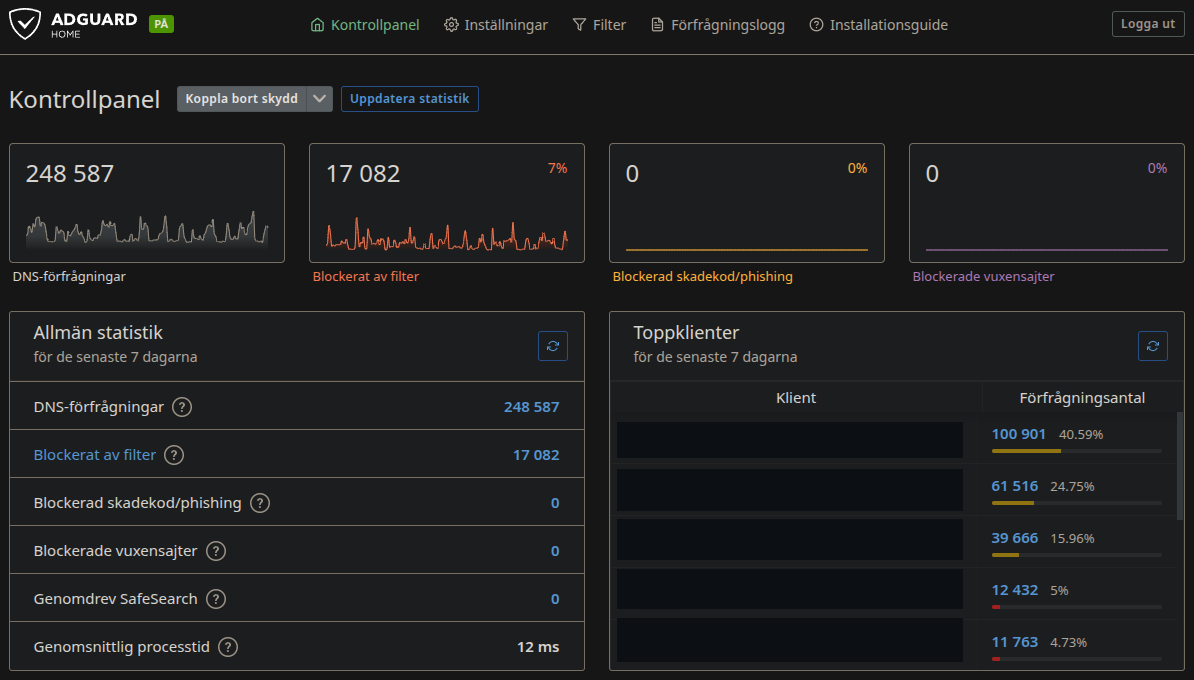
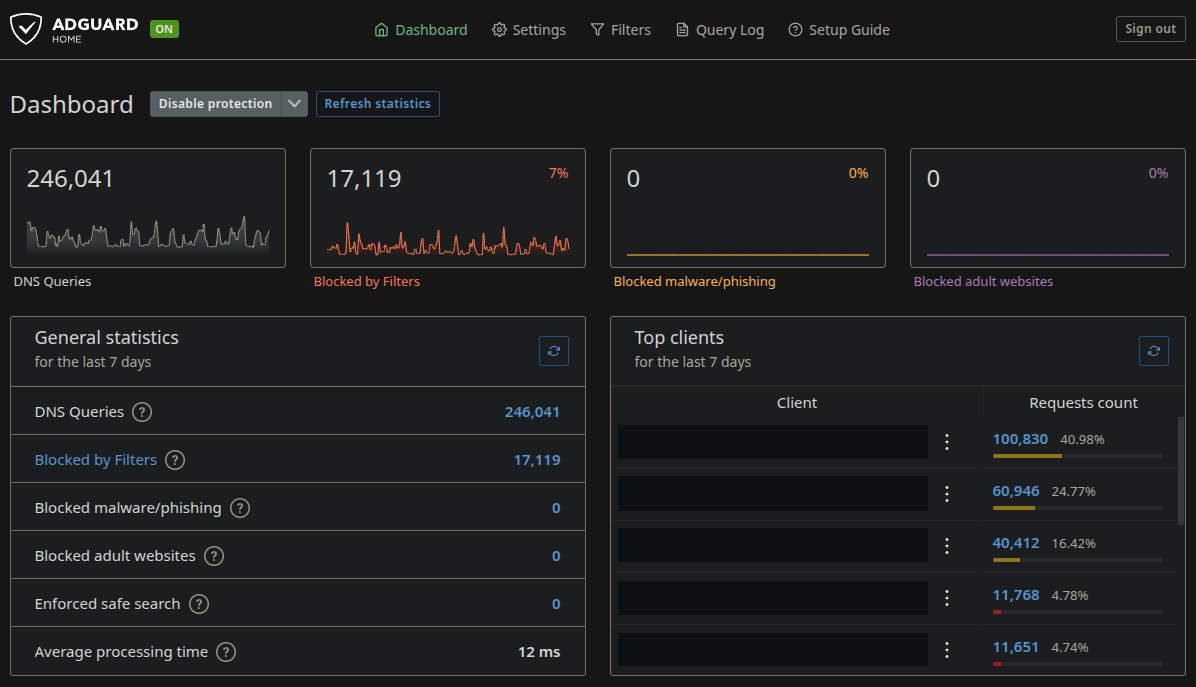
Add installed hardware photos and English AdGuard dashboard

diff --git a/scripts/check_public_content.py b/scripts/check_public_content.py
@@ -2,7 +2,7 @@
 """Review current or staged portfolio files without printing matched values.
 
 Checks the file allowlist, sensitive-data patterns, local Markdown links,
-and fingerprints of manually reviewed, metadata-free PNG screenshots.
+and fingerprints of manually reviewed, metadata-free PNG images.
 Image fingerprints do not replace visual review of a new or changed image.
 Run alongside Gitleaks and manual review. Uses Python's standard library.
 """
@@ -34,7 +34,7 @@ APPROVED_TEXT_FILES = frozenset({
     "scripts/check_public_content.py",
     "tests/test_public_content.py",
 })
-# Each fingerprint belongs to the final cropped/redacted PNG, not its source.
+# Each fingerprint belongs to the final public PNG, not its private source.
 # Changing an image requires visual review before approving a new fingerprint.
 APPROVED_IMAGES = {
[1 lines of base64/hex data omitted]
@@ -44,12 +44,14 @@ APPROVED_IMAGES = {
[12 lines of base64/hex data omitted]
 }
 APPROVED_FILES = APPROVED_TEXT_FILES | APPROVED_IMAGES.keys()
 ILLUSTRATIVE_NETWORK = ipaddress.ip_network("10.77.0.0/16")

diff --git a/docs/architecture.md b/docs/architecture.md
@@ -2,7 +2,26 @@
 
 ## Physical and virtual layout
 
-The lab runs on a single compact Proxmox VE system with approximately 32 GiB of RAM, NVMe-backed workload storage, and a separate SATA backup disk. OPNsense is a VM; application services run in LXC containers.
+The lab runs on a TekLager TLSense 10810U with 32 GB of RAM, NVMe-backed workload storage, and a separate SATA backup SSD. OPNsense is a VM; application services run in LXC containers.
+
+### Physical hardware
+
+The [TLSense 10810U](https://teklager.se/en/products/routers/tlsense-10810U) is a compact, passively cooled system with six 2.5 GbE Ethernet ports.
+
+| Component | Installed hardware | Role |
+| --- | --- | --- |
+| Processor | Intel Core i7-10810U, 6 cores / 12 threads | Proxmox VE, the firewall VM, and service containers |
+| Memory | 32 GB, 2 x 16 GB DDR4 SO-DIMM modules rated DDR4-3200 | Host and workload memory |
+| NVMe SSD | Samsung PM9A1 1 TB, M.2 2280, PCIe 4.0 x4 capable | Proxmox system disk, LVM, and LVM-thin workload storage |
+| SATA SSD | Samsung 870 EVO 500 GB, 2.5-inch SATA | Dedicated local workload and host-configuration backups |
+
+![TLSense 10810U Proxmox host with its passive-cooling chassis](../assets/photos/tlsense-proxmox-host.png)
+
+The photo shows the installed host, its passive-cooling fins, front USB ports, serial console connector, and power indicator.
+
+Product documentation: [Intel i7-10810U specifications](https://www.intel.com/content/www/us/en/products/sku/201888/intel-core-i710810u-processor-12m-cache-up-to-4-90-ghz/specifications.html), [Samsung PM9A1 overview](https://download.semiconductor.samsung.com/resources/brochure/Product%20Overviews%20PM9A1%20SSD%20Storage%20for%20the%20Next-Generation%20PC.pdf), and [Samsung 870 EVO data sheet](https://image.semiconductor.samsung.com/resources/data-sheet/Samsung_SSD_870_EVO_Data_Sheet_Rev1.1.pdf).
+
+### Proxmox layout
 
 ![Proxmox VE node summary, storage entries, and VM/LXC inventory](../assets/screenshots/proxmox-overview.png)
 

diff --git a/docs/network-and-security.md b/docs/network-and-security.md
@@ -51,7 +51,24 @@ The DNS and NTP allowances precede the broader blocks. The final internet rule f
 
 ## UniFi switching and wireless
 
-The UniFi Network controller runs in a Management-VLAN LXC. It manages a USW Flex 2.5G 8 switch and a U7-Pro-Wall access point. OPNsense remains responsible for routing, DHCP, and inter-VLAN firewall policy.
+The UniFi Network controller runs in a Management-VLAN LXC. It manages a Flex 2.5G (`USW-Flex-2.5G-8`) switch and a U7-Pro-Wall access point. OPNsense remains responsible for routing, DHCP, and inter-VLAN firewall policy.
+
+### Network hardware
+
+| Component | Hardware | Connection and power |
+| --- | --- | --- |
+| Flex 2.5G switch | 8 x 2.5 GbE RJ45 ports; 10 GbE RJ45 / SFP+ combination uplink | Router trunk on port 9 at 2.5 GbE; USB-C or PoE+ power-input capability |
+| U7 Pro Wall | Wi-Fi 7; 2.4, 5, and 6 GHz; 6 spatial streams; one 1/2.5 GbE Ethernet port | Wall-mounted; 2.5 GbE uplink from switch port 2 through a separate PoE injector |
+
+The installed switch is the non-PoE-output model. It can receive PoE+ power, but does not supply PoE power to the AP. The AP's injector supplies its power separately from the switch's network connection.
+
+Product references: [Flex 2.5G EU store](https://eu.store.ui.com/eu/en/products/usw-flex-2-5g-8), [Flex 2.5G specifications](https://techspecs.ui.com/unifi/switching/usw-flex-2-5g-8), [U7 Pro Wall EU store](https://eu.store.ui.com/eu/en/products/u7-pro-wall), and [U7 Pro Wall specifications](https://techspecs.ui.com/unifi/wifi/u7-pro-wall).
+
+![Wall-mounted U7 Pro Wall access point with its Ethernet cable and blue status indicator](../assets/photos/u7-pro-wall-installed.png)
+
+The AP provides the Trusted, IoT, and Guest/Work wireless networks. Its Ethernet uplink carries the corresponding VLAN traffic through the switch.
+
+### Wireless networks
 
 ![UniFi switch and access point, with their uplink relationship](../assets/screenshots/unifi-devices.png)
 

diff --git a/README.md b/README.md
@@ -19,6 +19,18 @@ Maintained by [tob9292](https://github.com/tob9292).
 | Recovery | Scheduled workload and host-configuration backups, offline/off-site copies, and emergency access procedures |
 | Documentation | A private Obsidian knowledge base, with selected material rewritten for this public portfolio |
 
+## Physical hardware
+
+| Component | Hardware |
+| --- | --- |
+| Proxmox host | TekLager TLSense 10810U; Intel Core i7-10810U; 32 GB DDR4 SO-DIMM RAM |
+| Workload storage | Samsung PM9A1 1 TB NVMe SSD |
+| Local backup storage | Samsung 870 EVO 500 GB SATA SSD |
+| Switch | UniFi Flex 2.5G (`USW-Flex-2.5G-8`), with eight 2.5 GbE ports and a 10 GbE combination uplink |
+| Access point | UniFi U7 Pro Wall, powered by a separate PoE injector |
+
+See the [hardware details and host installation photo](docs/architecture.md#physical-hardware) and [UniFi hardware and AP installation photo](docs/network-and-security.md#network-hardware).
+
 ## Architecture
 
 ```mermaid
@@ -78,3 +90,5 @@ Addresses in `10.77.0.0/16`, domains under `example.com`, and generic account na
 Configuration exports, credentials, MFA recovery material, private keys, original screenshots, and vault history remain private.
 
 Screenshots show the actual services, with live addresses, registered domains, device identifiers, and private browsing information removed. The captures are from October 2026.
+
+Hardware photos show the installed equipment. Public copies have location and other image metadata removed; the original photographs remain private.

diff --git a/docs/dns-and-https.md b/docs/dns-and-https.md
@@ -20,9 +20,9 @@ DNS troubleshooting follows the query path through the client, AdGuard, Unbound,
 
 AdGuard Home is the client-facing DNS service. Its dashboard summarizes query volume, filtered requests, average processing time, and activity by client.
 
-![AdGuard Home dashboard with seven-day DNS and filtering statistics](../assets/screenshots/adguard-dashboard.png)
+![AdGuard Home English dashboard with seven-day DNS and filtering statistics](../assets/screenshots/adguard-dashboard.png)
 
-The dashboard uses the Swedish interface. `DNS-förfrågningar` means DNS queries, `Blockerat av filter` means blocked by filters, and `Genomsnittlig processtid` is the average processing time. Client identities and the queried-domain lists are kept private.
+Client identities are masked, and the queried-domain lists are omitted from the public screenshot.
 
 ## Namespaces
 

diff --git a/docs/backup-and-recovery.md b/docs/backup-and-recovery.md
@@ -10,7 +10,7 @@
 | OPNsense configuration export | Restore firewall settings independently of a full guest restore | Retained before relevant changes |
 | OPNsense ZFS boot environment | Revert the firewall's system state | Created before selected changes and updates |
 
-Scheduled archives are stored on a dedicated SATA disk. Workloads use NVMe storage, and a USB disk holds the offline/off-site copy.
+Scheduled archives are stored on the dedicated Samsung 870 EVO 500 GB SATA SSD. Proxmox and workload disks use the Samsung PM9A1 1 TB NVMe SSD, and a USB disk holds the offline/off-site copy. See the [installed hardware](architecture.md#physical-hardware) for drive details.
 
 ## Workload selection and retention
 
